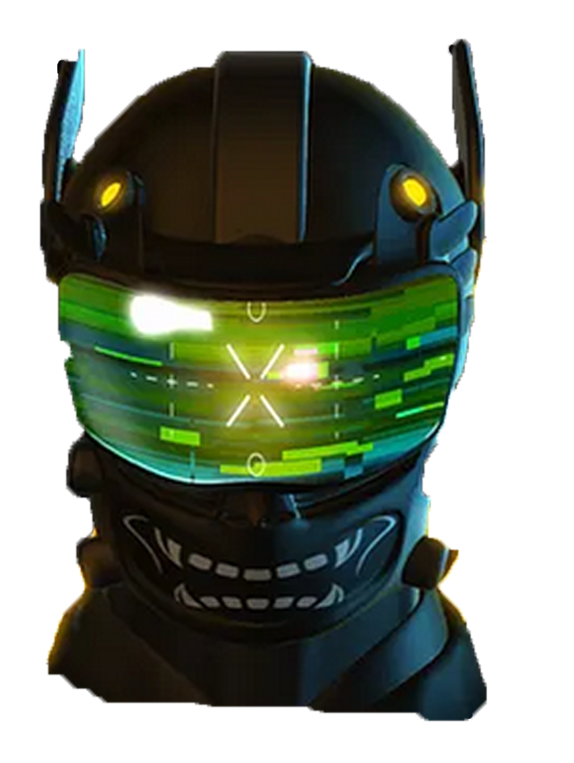
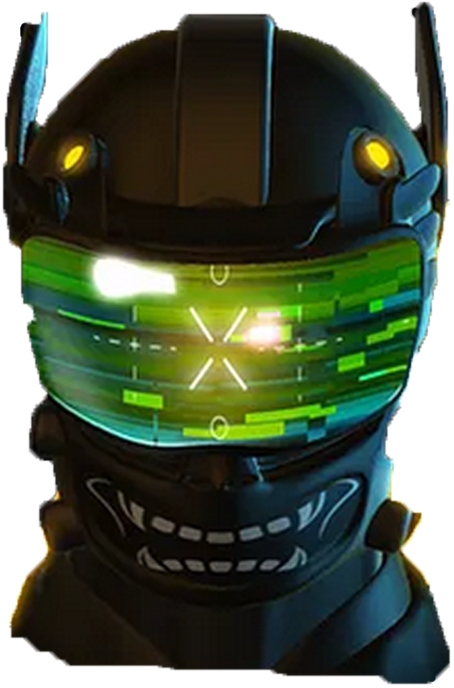
Added: More Responsiveness

diff --git a/src/pages/registration/Registration.module.scss b/src/pages/registration/Registration.module.scss
@@ -29,8 +29,7 @@ $dark-bg: #000;
   }
 
   .leftPanel {
-    width: 61vw;
-    flex: none;
+    flex: 1;
     display: flex;
     justify-content: center;
     align-items: center;
@@ -48,6 +47,7 @@ $dark-bg: #000;
     .robotFace {
       position: relative;
       height: 72%;
+      max-width: 18vw;
       object-fit: contain;
       z-index: 2;
       margin-top: 4%;
@@ -56,8 +56,10 @@ $dark-bg: #000;
   }
 
   .rightPanel {
-    width: 39vw;
-    flex: none;
+    // width: 39vw;
+    aspect-ratio: 1/3.4;
+    height: 100vh;
+    flex: 1;
     position: relative;
 
     .backgroundImage {
